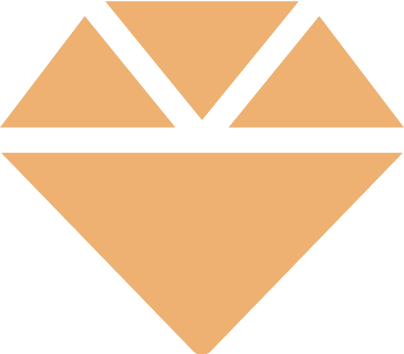
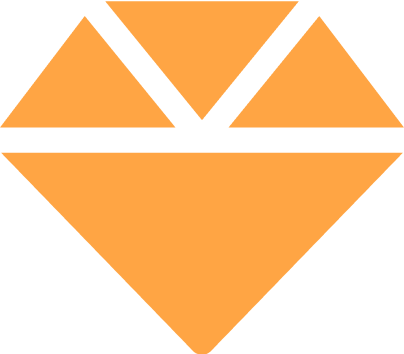
v0.4

diff --git a/app/assets/stylesheets/components/_crypto_card.scss b/app/assets/stylesheets/components/_crypto_card.scss
@@ -1,3 +1,73 @@
+.crypto-card {
+  background-color: white;
+  border-radius: 3px;
+  box-shadow: rgba(0, 0, 0, 0.12) 0px 1px 3px;
+
+  a {
+    margin: 0;
+    display: block;
+    width: 200px;
+  }
+
+  h5 {
+    color: darkgray;
+    margin: 0;
+    font-size: 15px;
+  }
+  padding: 0;
+}
+
+.crypto-name {
+  font-size: 25px;
+  text-decoration: none;
+  color: $dark;
+  font-weight: bold;
+}
+
+.crypto-name:hover {
+  font-size: 25px;
+  text-decoration: none;
+  color: $second;
+  transition: 0.3s;
+}
+
+
+.crypto-details {
+  h5 {
+    margin: 0;
+    font-size: 18px;
+    color: $dark;
+  }
+
+  img {
+    height: 22px;
+    filter: opacity(30%);
+    margin: 0 10px 0 25px;
+  }
+
+  h2 {
+    font-size: 18px !important;
+  }
+
+}
+
+.set-width-1c {
+  width: 10px;
+}
+
+.set-width-2c {
+  width: 20px;
+}
+
+.set-width-3c {
+  width: 35px;
+}
+
+.set-width-4c {
+  width: 60px;
+}
+
+
 .crypto-logo {
   width: 50px;
   height: 50px;
@@ -24,11 +94,7 @@
 .bg-eg{
   background-color: $eggplant;
 }
-.logo-container{
-  flex-direction: column;
-  justify-content: space-around;
-  width: 75px;
-}
+
 .c-attributes{
   display: flex;
   flex-direction: column;

diff --git a/app/assets/stylesheets/components/_crypto_show.scss b/app/assets/stylesheets/components/_crypto_show.scss
@@ -47,24 +47,12 @@
   width: 50px;
   height: 50px;
 }
+
 .rating-diamond-little{
-  width: 13px;
-  height: 13px;
+  width: 28px;
+  height: 28px;
 }
 
-.crypto-details {
-  h3 {
-    margin: 0;
-    font-size: 20px;
-    margin: 0 25px 0 0;
-  }
-
-  img {
-    height: 30px;
-    filter: opacity(50%);
-    margin: 0 10px 0 0;
-  }
-}
 
 .diamond-grayscale {
   filter: opacity(20%);

diff --git a/app/assets/stylesheets/config/_colors.scss b/app/assets/stylesheets/config/_colors.scss
@@ -10,6 +10,7 @@ $gray: #0E0000;
 $light-gray: #F4F4F4;
 $eggplant:  rgb(73, 56, 67);
 $main: #486C77;
-$second: #EEB171;
+$second: #ffa544;
+// $second: #EEB171;
 $dark: #625F5A;
 $light: #FAF9F7;

diff --git a/app/assets/stylesheets/components/_filters.scss b/app/assets/stylesheets/components/_filters.scss
@@ -1,4 +1,4 @@
-.posts-filters {
+.filters {
   text-decoration: none;
   a {
     text-decoration: none;

diff --git a/app/controllers/cryptos_controller.rb b/app/controllers/cryptos_controller.rb
@@ -1,14 +1,10 @@
 class CryptosController < ApplicationController
   def index
     @cryptos = policy_scope(Crypto)
-    @count = 0
-    if (params[:query])
+    if (params[:query].present?)
       @cryptos = Crypto.search_by_name_and_ticker(params[:query])
-      @count = @cryptos.size
       @cryptos = filter_cryptos(@cryptos)
-
     else
-      @count = @cryptos.size
       @cryptos = filter_cryptos(Crypto.all)
     end
 

diff --git a/app/models/crypto.rb b/app/models/crypto.rb
@@ -23,4 +23,19 @@ class Crypto < ApplicationRecord
     end
     output
   end
+
+
+  def price_short
+    output = 0
+    if self.price > 1000
+      output = "#{(self.price/1000).round(1)}k"
+    elsif self.price > 10
+      output = "#{(self.price).round(2)}"
+    elsif self.price > 1
+      output = "#{(self.price).round(3)}"
+    else
+      output = "#{(self.price).round(4)}"
+    end
+    output
+  end
 end

diff --git a/db/seeds.rb b/db/seeds.rb
@@ -73,8 +73,8 @@ end
 
 
 # main seeds
-CryptoComment.destroy_all
 CryptoNestedComment.destroy_all
+CryptoComment.destroy_all
 PostNestedComment.destroy_all
 PostComment.destroy_all
 CryptoRating.destroy_all
